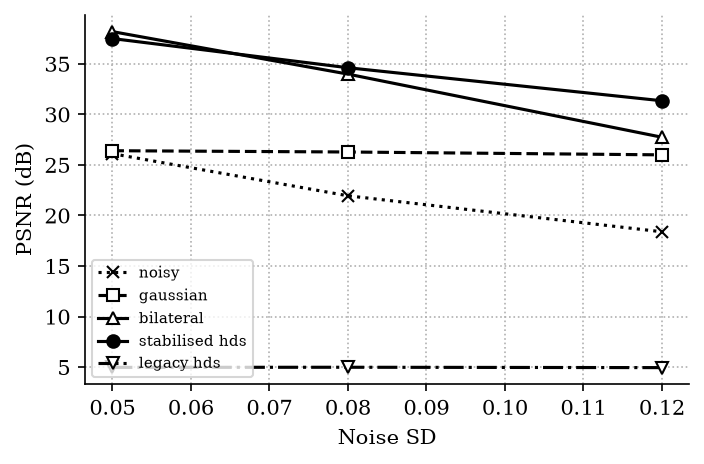
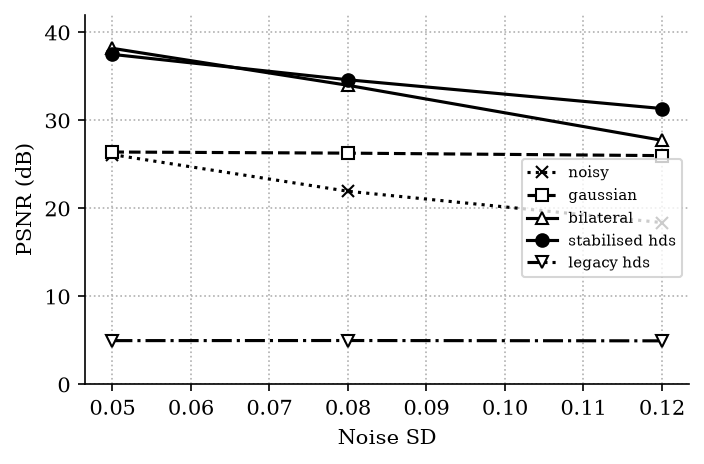
Paper: formatting fixes (class figure, legend, appendix tables), prior-work/ref-check prep
Claude-Session: https://claude.ai/code/session_01Nv7iK2kFQV4xrrUVXTZcWv

diff --git a/paper/render_docx.js b/paper/render_docx.js
@@ -60,7 +60,7 @@ function tableBlock(b) {
   const body = b.rows.map((r, ri) => new TableRow({
     children: r.map((v, i) => cell(v, i, ri === b.rows.length - 1 ? { bottom: RULE } : {}, false)) }));
   const out = [
-    new Paragraph({ pageBreakBefore: true, spacing: { ...SINGLE, after: 120 }, alignment: AlignmentType.LEFT,
+    new Paragraph({ pageBreakBefore: !String(b.num).startsWith("A"), keepNext: true, spacing: { ...SINGLE, before: String(b.num).startsWith("A") ? 240 : 0, after: 120 }, alignment: AlignmentType.LEFT,
       children: [new TextRun({ text: `Table ${b.num}. `, font: FONT, size: 22 }), ...runs(b.caption, { size: 22 })] }),
     new Table({ width: { size: TEXT_W, type: WidthType.DXA }, columnWidths: widths, rows: [header, ...body] }),
   ];

diff --git a/scripts/make_figures.py b/scripts/make_figures.py
@@ -51,7 +51,17 @@ def fig_pipeline():
 def fig_examples():
     im = Image.open(F / "seg_examples_src.png")
     im.thumbnail((1000, 1500)); im.save(F / "fig_examples.png")
-    c = Image.open(F / "classes_src.png"); c.thumbnail((1400, 1100)); c.save(F / "fig_classes.png")
+    import pandas as pd
+    man = pd.read_csv("data/full_run_v2/manifest.csv")
+    fig, ax = plt.subplots(3, 4, figsize=(7.0, 5.4))
+    for j, cname in enumerate(CL):
+        ids = man[man.class_name == cname].sort_values("image_id")
+        pick = ids.iloc[[len(ids) // 5, len(ids) // 2, 4 * len(ids) // 5]]
+        for i, (_, r) in enumerate(pick.iterrows()):
+            a = ax[i, j]; a.imshow(Image.open(Path("data/dataset/Original") / r.rel_path)); a.set_xticks([]); a.set_yticks([])
+            if i == 0:
+                a.set_title(cname, fontsize=10)
+    fig.tight_layout(); fig.savefig(F / "fig_classes.png", bbox_inches="tight"); plt.close(fig)
 
 
 def fig_ablation():
@@ -114,7 +124,7 @@ def fig_hds():
     s = [r["sigma"] for r in h]
     for k, m, ls in [("noisy", "x", ":"), ("gaussian", "s", "--"), ("bilateral", "^", "-"), ("stabilised_hds", "o", "-"), ("legacy_hds", "v", "-.")]:
         ax.plot(s, [r[k] for r in h], "k" + m, ls=ls, mfc="white" if k != "stabilised_hds" else "black", label=k.replace("_", " "))
-    ax.set_xlabel("Noise SD"); ax.set_ylabel("PSNR (dB)"); ax.legend(fontsize=7); ax.grid(ls=":")
+    ax.set_xlabel("Noise SD"); ax.set_ylabel("PSNR (dB)"); ax.set_ylim(0, 42); ax.legend(fontsize=7, loc="center right", bbox_to_anchor=(1.0, 0.45)); ax.grid(ls=":")
     fig.savefig(F / "fig_hds.png", bbox_inches="tight"); plt.close(fig)
 
 

diff --git a/paper/build_paper.py b/paper/build_paper.py
@@ -183,7 +183,7 @@ if ENC:
 Fg("pipeline", "paper/figures/fig_pipeline.png", "Processing pipeline. Solid arrows show the path used for the headline model; the dotted branch produces the "
    "hand-made (tabular) features used in the ablations and the hybrid variant.", 6.0)
 Fg("classes", "paper/figures/fig_classes.png", "Example images of the four classes (Benign, Early, Pre, Pro) of the dataset, 224 x 224 pixels as supplied. "
-   "Differences in background colour and illumination between classes are visible.", 6.0)
+   "Differences in background colour and illumination between classes are visible, as are scale bars of different styles in the image corners (red, black or white).", 6.0)
 Fg("seg", "paper/figures/fig_examples.png", "Cell segmentation. Left column: stain-normalised input; right column: detected cell boundaries (green). "
    "Touching cells are split by the watershed step (middle row). Border-touching cells are retained but flagged.", 4.4)
 Fg("session", "paper/figures/fig_session.png", "Capture-order structure of the dataset. Median distance between the feature vectors of images with adjacent capture numbers "
